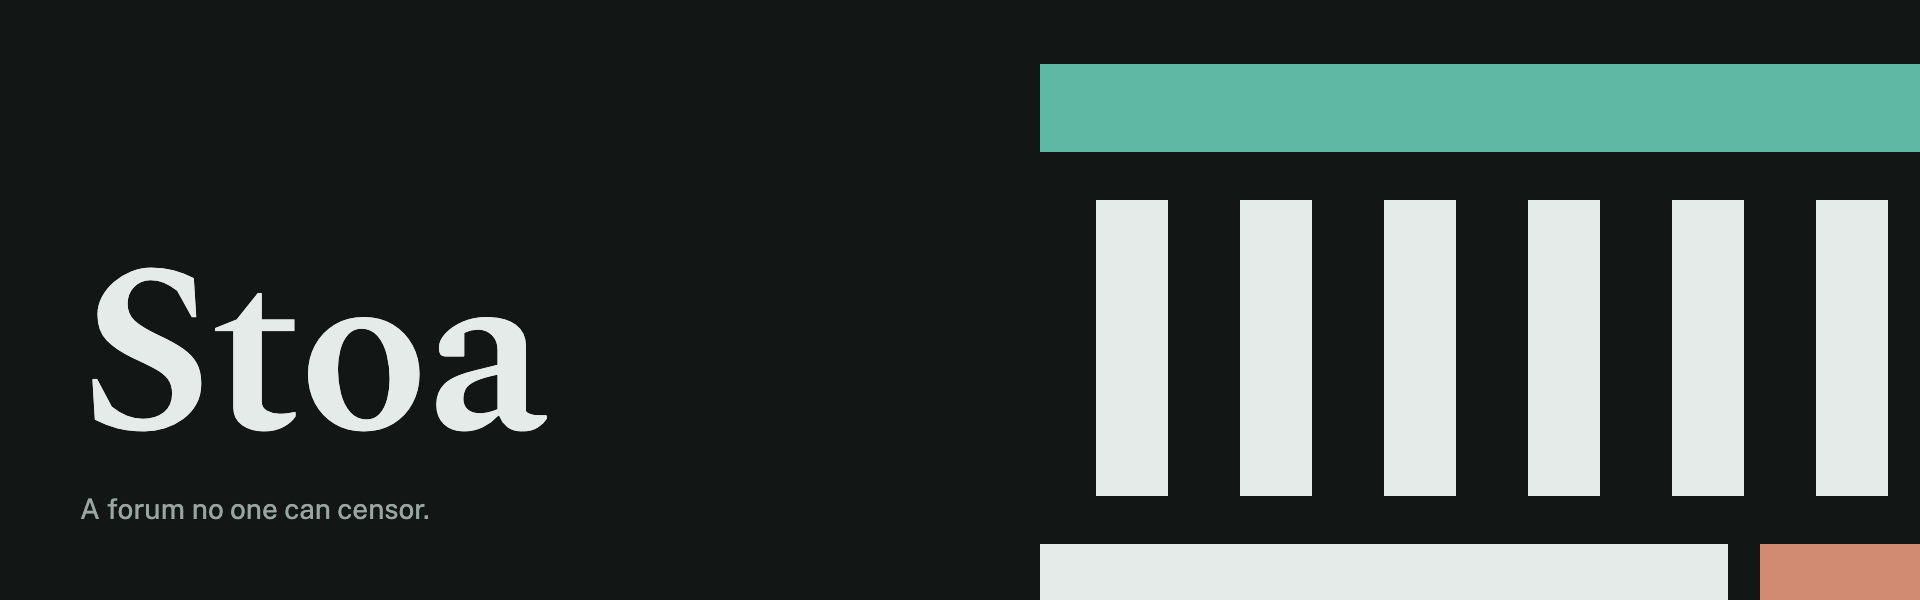
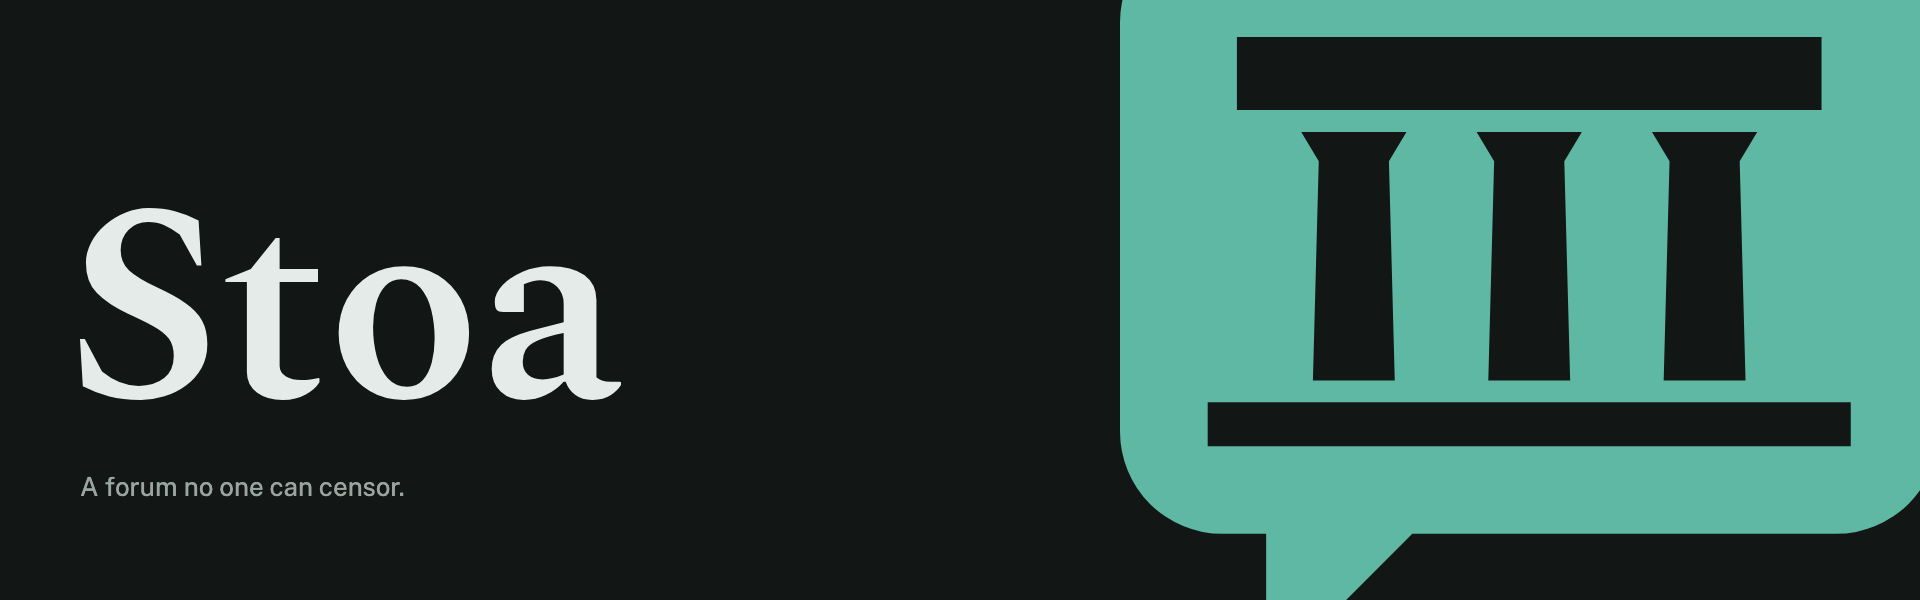
The mark is a speech bubble with a stoa in it
The stoa (a lintel on three columns, on a step) is cut out of a Patina
bubble, so the mark is one color and the ground shows through it. The
lockup, favicons, app icon, guidelines and images are redrawn for it;
minimum sizes are now one rule each, and the cover no longer uses Rust.

diff --git a/source/marks.py b/source/marks.py
@@ -14,28 +14,42 @@ INK, PATINA = "#1d2422", "#2f7d6d"
 INK_D, PATINA_D = "#e5ebe8", "#5fb8a3"
 WHITE = "#ffffff"
 
-# The master mark on a 32 grid: a flat roof, four columns, a base.
-ROOF = (2, 3, 28, 4)
-COLS = [(x, 9, 3, 14) for x in (4, 11, 18, 25)]
-BASE = (2, 25, 28, 4)
+# The master mark on a 32 grid: a speech bubble with a stoa inside it, a
+# lintel on three columns on a step. The stoa is cut out of the bubble, so
+# the ground shows through it; the mark is one color.
 BOX = (2, 3, 28, 26)  # the mark's extent: 28 wide, 26 tall
-
-def rect(r, fill, dx=0, dy=0, s=1):
-    x, y, w, h = r
-    return f'<rect x="{fmt((x+dx)*s)}" y="{fmt((y+dy)*s)}" width="{fmt(w*s)}" height="{fmt(h*s)}" fill="{fill}"/>'
+BODY = (2, 3, 28, 21, 3.5)  # the bubble: x, y, width, height, corner radius
+TAIL = [(7, 24), (7, 29), (12, 24)]  # its tail, below the left of the body, at 45°
+LINTEL = (6, 7, 20, 2.5)
+STEP = (5, 19.5, 22, 1.5)
+# A column: its capital flares from 3.6 wide to 2.4 in a unit, then the shaft widens to 2.8 at its foot.
+COLUMNS = (10, 16, 22)
+CAPITAL, NECK, FOOT = (10.25, 1.8), (11.25, 1.2), (18.75, 1.4)  # (y, half width)
 
 def fmt(v):
     return ("%.3f" % v).rstrip("0").rstrip(".")
 
-def mark(roof, rest, dx=0, dy=0, s=1):
-    return rect(ROOF, roof, dx, dy, s) + "".join(rect(c, rest, dx, dy, s) for c in COLS) + rect(BASE, rest, dx, dy, s)
+def mark(fill, dx=0, dy=0, s=1):
+    """The mark as one path, its stoa a hole (evenodd)."""
+    X = lambda x: fmt((x + dx) * s); Y = lambda y: fmt((y + dy) * s)
+    x, y, w, h, r = BODY
+    d = (f"M{X(x+r)} {Y(y)}H{X(x+w-r)}A{fmt(r*s)} {fmt(r*s)} 0 0 1 {X(x+w)} {Y(y+r)}V{Y(y+h-r)}"
+         f"A{fmt(r*s)} {fmt(r*s)} 0 0 1 {X(x+w-r)} {Y(y+h)}H{X(TAIL[2][0])}L{X(TAIL[1][0])} {Y(TAIL[1][1])}V{Y(y+h)}"
+         f"H{X(x+r)}A{fmt(r*s)} {fmt(r*s)} 0 0 1 {X(x)} {Y(y+h-r)}V{Y(y+r)}A{fmt(r*s)} {fmt(r*s)} 0 0 1 {X(x+r)} {Y(y)}Z")
+    for rx, ry, rw, rh in (LINTEL, STEP):
+        d += f"M{X(rx)} {Y(ry)}H{X(rx+rw)}V{Y(ry+rh)}H{X(rx)}Z"
+    for c in COLUMNS:
+        (y0, a), (y1, b), (y2, f) = CAPITAL, NECK, FOOT
+        d += f"M{X(c-a)} {Y(y0)}H{X(c+a)}L{X(c+b)} {Y(y1)}L{X(c+f)} {Y(y2)}H{X(c-f)}L{X(c-b)} {Y(y1)}Z"
+    return f'<path fill="{fill}" fill-rule="evenodd" d="{d}"/>'
 
 def svg(w, h, body, title, top=0.0, bottom=0.0):
     # top, bottom: room for the letters' overshoot past the cap line and baseline
     vh = h + top + bottom
     return f'<svg xmlns="http://www.w3.org/2000/svg" viewBox="0 {fmt(-top)} {fmt(w)} {fmt(vh)}" width="{fmt(w)}" height="{fmt(vh)}" role="img" aria-label="{title}"><title>{title}</title>{body}</svg>\n'
 
-# The wordmark: Spectral SemiBold, outlined, cap height = the mark's height.
+# The wordmark: Spectral SemiBold, outlined, cap height = the bubble's height,
+# its baseline on the bubble's bottom: the tail hangs below like a descender.
 font = TTFont(str(ROOT / "fonts/spectral-600.woff2"))
 gs, cmap, hmtx = font.getGlyphSet(), font.getBestCmap(), font["hmtx"]
 CAP = font["OS/2"].sCapHeight  # 660 of 1000
@@ -53,9 +67,9 @@ def word(text, scale, x0, baseline, fill):
     return f'<path fill="{fill}" d="{pen.getCommands()}"/>', x * scale, lsb * scale
 
 H = 26.0                      # mark height on the 32 grid
-SC = H / CAP                  # font units -> grid units
-R = 4.0                       # one roof: the unit of clear space and gaps
-GAP = 2 * R                   # mark to wordmark
+B = BODY[3]                   # the bubble's height: the wordmark's cap height
+SC = B / CAP                  # font units -> grid units
+GAP = 6.0                     # mark to wordmark: twice the bubble's margin below the step
 
 def wordmark_width():
     _, w, lsb = word("Stoa", SC, 0, 0, INK)
@@ -69,18 +83,18 @@ OVER_TOP = max(0, (_b.bounds[3] - CAP) * SC)
 OVER_BOTTOM = max(0, -_b.bounds[1] * SC)
 
 def lockup(ink, patina):
-    # mark at (0,0)-(28,26); wordmark baseline on the base's bottom
-    body = mark(patina, ink, dx=-2, dy=-3)
-    path, w, lsb = word("Stoa", SC, 28 + GAP - LSB, H, ink)
+    # mark at (0,0)-(28,26); wordmark baseline on the bubble's bottom
+    body = mark(patina, dx=-2, dy=-3)
+    path, w, lsb = word("Stoa", SC, 28 + GAP - LSB, B, ink)
     return 28 + GAP - LSB + w, H, body + path
 
 def stacked(ink, patina):
     width = max(28, WW - LSB)
     mx = (width - 28) / 2
-    body = mark(patina, ink, dx=-2 + mx, dy=-3)
+    body = mark(patina, dx=-2 + mx, dy=-3)
     wx = (width - (WW - LSB)) / 2 - LSB
-    path, _, _ = word("Stoa", SC, wx, H + GAP + H, ink)
-    return width, H + GAP + H, body + path
+    path, _, _ = word("Stoa", SC, wx, H + GAP + B, ink)
+    return width, H + GAP + B, body + path
 
 files = {}
 w, h, b = lockup(INK, PATINA); files["stoa-lockup.svg"] = svg(w, h, b, "Stoa", OVER_TOP, OVER_BOTTOM)
@@ -88,37 +102,37 @@ w, h, b = lockup(INK_D, PATINA_D); files["stoa-lockup-reversed.svg"] = svg(w, h,
 w, h, b = lockup(WHITE, WHITE); files["stoa-lockup-white.svg"] = svg(w, h, b, "Stoa", OVER_TOP, OVER_BOTTOM)
 w, h, b = stacked(INK, PATINA); files["stoa-lockup-stacked.svg"] = svg(w, h, b, "Stoa", 0, OVER_BOTTOM)
 w, h, b = stacked(INK_D, PATINA_D); files["stoa-lockup-stacked-reversed.svg"] = svg(w, h, b, "Stoa", 0, OVER_BOTTOM)
-files["stoa-mark.svg"] = svg(28, 26, mark(PATINA, INK, -2, -3), "Stoa")
-files["stoa-mark-reversed.svg"] = svg(28, 26, mark(PATINA_D, INK_D, -2, -3), "Stoa")
-files["stoa-mark-ink.svg"] = svg(28, 26, mark(INK, INK, -2, -3), "Stoa")
-files["stoa-mark-white.svg"] = svg(28, 26, mark(WHITE, WHITE, -2, -3), "Stoa")
-p, ww, lsb = word("Stoa", SC, -LSB, H, INK)
-files["stoa-wordmark.svg"] = svg(ww - LSB, H, p, "Stoa", OVER_TOP, OVER_BOTTOM)
+files["stoa-mark.svg"] = svg(28, 26, mark(PATINA, -2, -3), "Stoa")
+files["stoa-mark-reversed.svg"] = svg(28, 26, mark(PATINA_D, -2, -3), "Stoa")
+files["stoa-mark-ink.svg"] = svg(28, 26, mark(INK, -2, -3), "Stoa")
+files["stoa-mark-white.svg"] = svg(28, 26, mark(WHITE, -2, -3), "Stoa")
+p, ww, lsb = word("Stoa", SC, -LSB, B, INK)
+files["stoa-wordmark.svg"] = svg(ww - LSB, B, p, "Stoa", OVER_TOP, OVER_BOTTOM)
 
-# Small sizes: a 16-pixel drawing with three columns, on whole pixels.
-def small(roof, rest):
-    r = [(1, 2, 14, 2, roof)] + [(x, 5, 2, 6, rest) for x in (3, 7, 11)] + [(1, 12, 14, 2, rest)]
-    return "".join(f'<rect x="{x}" y="{y}" width="{w}" height="{h}" fill="{f}"/>' for x, y, w, h, f in r)
+# Small sizes: a 16-pixel drawing on whole pixels: the bubble, a lintel,
+# three straight columns, a step.
+SMALL_BODY = "M3 1H13A2 2 0 0 1 15 3V10A2 2 0 0 1 13 12H7L4 15V12H3A2 2 0 0 1 1 10V3A2 2 0 0 1 3 1Z"
+SMALL_HOLES = [(3, 3, 10, 1)] + [(x, 5, 2, 4) for x in (4, 7, 10)] + [(3, 10, 10, 1)]
+def small(fill):
+    holes = "".join(f"M{x} {y}h{w}v{h}h{-w}Z" for x, y, w, h in SMALL_HOLES)
+    return f'<path fill="{fill}" fill-rule="evenodd" d="{SMALL_BODY}{holes}"/>'
 
 files["favicon.svg"] = ('<svg xmlns="http://www.w3.org/2000/svg" viewBox="0 0 16 16" width="16" height="16"><title>Stoa</title>'
-    '<style>.r{fill:%s}.c{fill:%s}@media (prefers-color-scheme:dark){.r{fill:%s}.c{fill:%s}}</style>' % (PATINA, INK, PATINA_D, INK_D)
-    + small("x", "x").replace('fill="x"', 'class="c"').replace('class="c"', 'class="r"', 1) + "</svg>\n")
-files["stoa-mark-16.svg"] = svg(16, 16, small(PATINA, INK), "Stoa")
+    '<style>path{fill:%s}@media (prefers-color-scheme:dark){path{fill:%s}}</style>' % (PATINA, PATINA_D)
+    + small("currentColor").replace(' fill="currentColor"', '') + "</svg>\n")
+files["stoa-mark-16.svg"] = svg(16, 16, small(PATINA), "Stoa")
 
 # The app icon: the mark in white on a patina square; full bleed, so platforms round it.
-def tile(size):
-    s = size * 0.56 / 28          # the mark spans 56% of the tile: inside the maskable 80% circle
+def tile(size, share=0.56, rx=0):
+    s = size * share / 28          # the mark spans 56% of the tile: inside the maskable 80% circle
     dx = (size - 28 * s) / 2 / s - 2
     dy = (size - 26 * s) / 2 / s - 3
-    return svg(size, size, f'<rect width="{size}" height="{size}" fill="{PATINA}"/>' + mark(WHITE, WHITE, dx, dy, s), "Stoa")
+    corner = f' rx="{fmt(rx)}"' if rx else ""
+    return svg(size, size, f'<rect width="{size}" height="{size}"{corner} fill="{PATINA}"/>' + mark(WHITE, dx, dy, s), "Stoa")
 files["app-icon.svg"] = tile(512)
-# Tab icons in PNG: the tile, drawn on whole pixels at 16 and 32.
-files["favicon-tile-16.svg"] = svg(16, 16, f'<rect width="16" height="16" rx="3" fill="{PATINA}"/>' +
-    "".join(f'<rect x="{x}" y="{y}" width="{w}" height="{h}" fill="{WHITE}"/>' for x, y, w, h in
-            [(2, 3, 12, 2)] + [(xx, 6, 2, 5) for xx in (4, 7, 10)] + [(2, 12, 12, 1)]), "Stoa")
-files["favicon-tile-32.svg"] = svg(32, 32, f'<rect width="32" height="32" rx="6" fill="{PATINA}"/>' +
-    "".join(f'<rect x="{x}" y="{y}" width="{w}" height="{h}" fill="{WHITE}"/>' for x, y, w, h in
-            [(5, 7, 22, 3)] + [(xx, 12, 2, 9) for xx in (7, 12, 18, 23)] + [(5, 23, 22, 3)]), "Stoa")
+# Tab icons in PNG: the white mark on a rounded patina tile.
+files["favicon-tile-32.svg"] = tile(32, 0.8, 6)
+files["favicon-tile-16.svg"] = svg(16, 16, f'<rect width="16" height="16" rx="3" fill="{PATINA}"/>' + small(WHITE), "Stoa")
 
 for name, text in files.items():
     folder = pathlib.Path(OUT) / ("logos" if name.startswith("stoa-") else "favicons")

diff --git a/docs/logo.md b/docs/logo.md
@@ -1,6 +1,6 @@
 # Logo
 
-The mark is a stoa seen from the front: a flat roof on four columns, standing on a base. The roof is Patina; the columns and base are Ink. It has no pediment: a stoa is a walkway open to everyone, not a temple or a bank.
+The mark is a speech bubble with a stoa inside it: a lintel on three columns, standing on a step. A stoa was the covered colonnade of a Greek city where anyone could walk in and speak, and the bubble says what happens there. The bubble is Patina; the stoa is cut out of it, so the ground shows through. It is one color, so it reads the same on every ground.
 
 ## The suite
 
@@ -11,13 +11,13 @@ The mark is a stoa seen from the front: a flat roof on four columns, standing on
 | File | What it is | Use it |
 |---|---|---|
 | [`stoa-lockup.svg`](../logos/stoa-lockup.svg) | **Primary logo**: the mark, then the wordmark | The default everywhere: site header, documents, slides, social profiles. On Limestone, Marble or any light, calm ground. |
-| [`stoa-lockup-reversed.svg`](../logos/stoa-lockup-reversed.svg) | Primary, for dark grounds | On Night (`bg`, dark), Ink, or dark photography. Lighter Patina roof, Ink-light columns. |
+| [`stoa-lockup-reversed.svg`](../logos/stoa-lockup-reversed.svg) | Primary, for dark grounds | On Night (`bg`, dark), Ink, or dark photography. A lighter Patina bubble and an Ink-light wordmark. |
 | [`stoa-lockup-white.svg`](../logos/stoa-lockup-white.svg) | Primary, one color white | On a Patina fill, or on a dark photo where two colors would clash. |
 | [`stoa-lockup-stacked.svg`](../logos/stoa-lockup-stacked.svg), `…-stacked-reversed.svg` | **Secondary**: the mark above the wordmark | Square and tall spaces: avatars with room for the name, title slides, stickers, merchandise. |
 | [`stoa-mark.svg`](../logos/stoa-mark.svg), `…-reversed.svg` | **Secondary**: the mark alone | Where the name is already present or the space is small: the app header on phones, social avatars, watermarks. |
 | [`stoa-mark-ink.svg`](../logos/stoa-mark-ink.svg), `stoa-mark-white.svg` | The mark in one color | Single-color printing, embossing, engraving, fax-quality reproduction. |
 | [`stoa-wordmark.svg`](../logos/stoa-wordmark.svg) | The wordmark alone | Only where the mark already appears nearby, such as the footer of a page whose header has the mark. Never as the only identifier. |
-| [`stoa-mark-16.svg`](../logos/stoa-mark-16.svg) | **Small-size mark**: three columns on whole pixels | 16px only: tab icons, inline badges. |
+| [`stoa-mark-16.svg`](../logos/stoa-mark-16.svg) | **Small-size mark**: the bubble, lintel, three straight columns and step on whole pixels | 16px only: tab icons, inline badges. |
 
 The wordmark is "Stoa" in Spectral SemiBold, converted to outlines. It is never retyped: live text renders differently from browser to browser.
 
@@ -27,14 +27,15 @@ The wordmark is "Stoa" in Spectral SemiBold, converted to outlines. It is never 
 
 The mark is drawn on a 32-unit grid and spans 28 × 26 units.
 
-- **Roof:** 28 × 4, Patina.
-- **Columns:** four, each 3 × 14, at a 7-unit pitch, starting 2 units in from each end of the roof.
-- **Base:** 28 × 4.
-- **Gaps:** 2 units between the roof and the columns, and between the columns and the base.
+- **Bubble:** 28 × 21, corners of radius 3.5.
+- **Tail:** below the left of the bubble, 5 units wide and 5 deep: a vertical edge 5 units in from the bubble's left, and an edge at 45°.
+- **Lintel:** 20 × 2.5, 4 units below the bubble's top.
+- **Columns:** three, 6 units apart, 8.5 tall, 0.75 below the lintel. Each capital flares from 3.6 wide to 2.4 in one unit; the shaft widens to 2.8 at its foot.
+- **Step:** 22 × 1.5, 0.75 below the columns and 3 above the bubble's bottom.
 
-The roof's height, **R**, is the unit for everything around the mark: R = 4/26 of the mark's height, or about 0.15 of it.
+Everything but the bubble is a hole (`fill-rule="evenodd"`), not white paint.
 
-In the lockup, the wordmark's cap height equals the mark's height, and its baseline sits on the bottom of the base. The wordmark starts 2R after the mark. The primary lockup is about 4.2 times as wide as it is tall, and the stacked lockup about 1.25 times.
+In the lockup, the wordmark's cap height equals the bubble's height (21), and its baseline sits on the bubble's bottom, so the tail hangs below the line like a descender. The wordmark starts 6 units after the mark. The primary lockup is about 3.7 times as wide as it is tall, and the stacked lockup about 1.15 times as wide.
 
 ## Clear space
 
@@ -44,18 +45,18 @@ Keep **half the mark's height** clear on every side, measured from the outermost
 
 | Asset | Digital | Print |
 |---|---|---|
-| Primary lockup | 16px tall (67px wide) | 5 mm tall |
-| Stacked lockup | 32px tall | 10 mm tall |
-| Mark, four columns | 24px wide | 6 mm wide |
-| Mark below 24px | [`stoa-mark-16.svg`](../logos/stoa-mark-16.svg) at exactly 16px | Not used in print |
+| Primary lockup | 20px tall | 6 mm tall |
+| Stacked lockup | 40px tall | 12 mm tall |
+| Mark | 20px tall | 6 mm tall |
+| Mark below 20px | [`stoa-mark-16.svg`](../logos/stoa-mark-16.svg) at exactly 16px | Not used in print |
 
-Below these sizes, the gaps between the columns close up and the wordmark's serifs break apart. Never use anything smaller than 16px.
+Below these sizes the columns run together and the wordmark's serifs break apart. Never use anything smaller than 16px, and never use the master mark between 16px and 20px.
 
 ## Color on grounds
 
 | Ground | Logo |
 |---|---|
-| Limestone `#f3f4f2`, Marble `#ffffff`, any light neutral | Primary: Patina and Ink |
+| Limestone `#f3f4f2`, Marble `#ffffff`, any light neutral | Primary: a Patina mark and an Ink wordmark |
 | Night `#121615`, Ink `#1d2422`, any dark neutral | Reversed |
 | Patina `#2f7d6d` | White, one color |
 | A photograph | White on a dark, calm area, or Ink on a light, calm area. Never across faces, text or busy detail. |
@@ -75,15 +76,15 @@ Below these sizes, the gaps between the columns close up and the wordmark's seri
 ## Don't
 
 - **Stretch, squash or skew it.** Scale it proportionally only.
-- **Rotate or tilt it.** The roof is always level.
-- **Recolor it.** Don't put the roof in Rust or Ochre, use brand colors outside the four approved schemes, or apply gradients.
-- **Swap the two colors.** Patina is always the roof and never the columns.
+- **Rotate or tilt it.** The lintel is always level.
+- **Recolor it.** Don't put the bubble in Rust or Ochre, use brand colors outside the approved schemes, or apply gradients.
+- **Fill in the stoa** or paint it white. It is a hole; on any ground, the ground shows through it.
 - **Add effects:** drop shadows, glows, outlines, bevels or transparency.
 - **Place it on a clashing ground.** That includes the two-color logo on Patina, Rust or Ochre, the primary logo on a dark ground, and any version on a busy pattern or photo detail.
 - **Rearrange it.** Don't put the wordmark before the mark, change the gap, or set the wordmark smaller or larger against the mark.
 - **Retype the wordmark** in another font or weight, or change it to "STOA" or "stoa".
-- **Redraw the mark.** Don't add a pediment, change the number of columns at sizes above 24px, or round the corners.
-- **Enlarge the 16px mark.** Its three columns are only for 16px.
+- **Redraw the mark.** Don't draw it as an outline, add a pediment, change the number of columns, flip the tail to the right, or change the bubble's corners.
+- **Enlarge the 16px mark.** Its straight columns are only for 16px.
 
 ## Favicons
 
@@ -91,7 +92,7 @@ Below these sizes, the gaps between the columns close up and the wordmark's seri
 
 Stoa's tab, home-screen and app icons, and the markup that loads them.
 
-- `favicon.svg` is the primary favicon: the 16px three-column mark, which switches to the reversed colors in a dark browser.
+- `favicon.svg` is the primary favicon: the 16px mark in Patina, which switches to the lighter Patina in a dark browser.
 - `favicon-32.png` and `favicon-16.png` are fallbacks for browsers that don't take SVG icons: a white mark on a Patina tile.
 - `apple-touch-icon.png` (180) and `icon-512.png` are full-bleed Patina squares with the white mark in the central 56%. They are safe for iOS rounding and Android's maskable icons. Don't add corners or padding.
 - Set `theme-color` to `bg`: `#f3f4f2` in light and `#121615` in dark.

diff --git a/README.md b/README.md
@@ -2,7 +2,7 @@
 
 ![Stoa](docs/images/cover.png)
 
-Stoa is a forum no one can censor. Its communities, posts and votes live on Lattice chains, and each reader's own client reads them, checks them and decides what to show. A stoa was the covered colonnade of a Greek city, where anyone could walk in and speak. The brand takes three things from it: a shared roof held up by many independent columns, stone-pale grounds, and bronze that has weathered to patina.
+Stoa is a forum no one can censor. Its communities, posts and votes live on Lattice chains, and each reader's own client reads them, checks them and decides what to show. A stoa was the covered colonnade of a Greek city, where anyone could walk in and speak. The logo puts one in a speech bubble: a public place for talking. The brand also takes stone-pale grounds from it, and bronze that has weathered to patina.
 
 These are Stoa's brand guidelines: the logo, color and typography, with the files to use. This page gives the principles and the voice.
 

diff --git a/docs/color.md b/docs/color.md
@@ -6,8 +6,8 @@ Stoa's colors come from its namesake: pale limestone and marble, dark ink, and b
 
 | Name | Token | HEX | RGB | CMYK | Role |
 |---|---|---|---|---|---|
-| Patina | `accent` | `#2F7D6D` | 47, 125, 109 | 62, 0, 13, 51 | The brand's color: the logo's roof, primary actions, links, focus |
-| Ink | `ink` | `#1D2422` | 29, 36, 34 | 19, 0, 6, 86 | All text, the logo's columns and wordmark |
+| Patina | `accent` | `#2F7D6D` | 47, 125, 109 | 62, 0, 13, 51 | The brand's color: the logo's mark, primary actions, links, focus |
+| Ink | `ink` | `#1D2422` | 29, 36, 34 | 19, 0, 6, 86 | All text, and the logo's wordmark |
 
 ## Secondary
 
